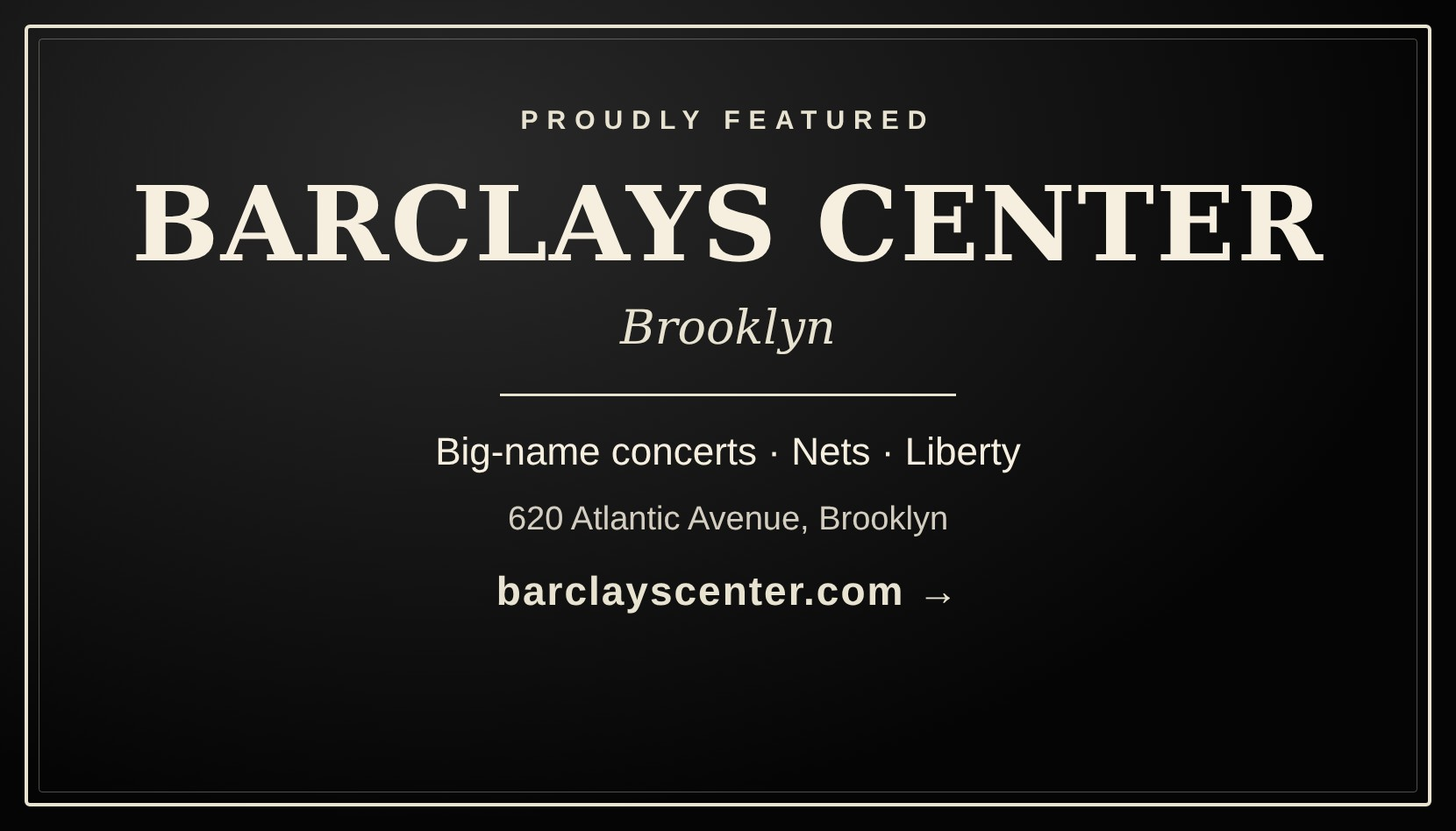
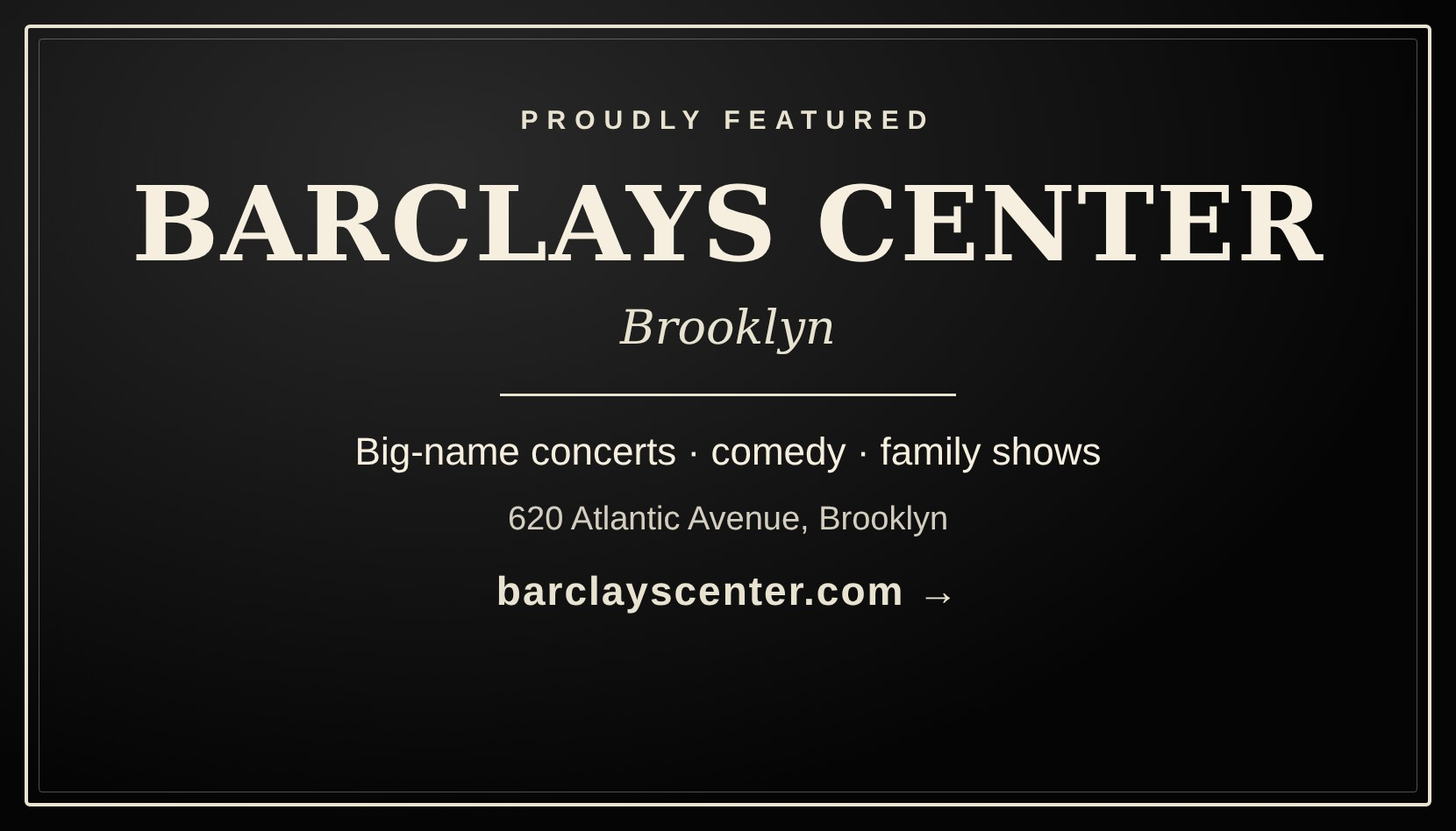
No sports: remove sports stories, headlines, calendar games and sports feed
Claude-Session: https://claude.ai/code/session_01Rvhfw57S8LJQmjjH2L4ZDg

Changed region(s): [[0.2458, 0.52, 0.7681, 0.5812]]

diff --git a/index.html b/index.html
@@ -1384,7 +1384,7 @@ html body #jtSea .jts-m{display:flex;gap:10px;align-items:baseline;padding-top:8
 </div>
 
 <script>
-const STORIES=[{"slug": "stevie-wonder-songs-in-the-key-of-life-msg", "topic": "music", "date": "2026-10-30", "until": "2026-11-19", "minutes": 2, "title": "Stevie Wonder Brings 'Songs in the Key of Life' to the Garden", "dek": "Stevie Wonder marks 50 years of his landmark double album with a Madison Square Garden show on Thursday, Nov. 19.", "body": ["Stevie Wonder plays Madison Square Garden on Thursday, Nov. 19, on his Songs in the Key of Life 50th Anniversary Tour, celebrating half a century of the album.", "Doors open at 7 p.m. and the show starts at 8 p.m. The Garden is at 4 Pennsylvania Plaza in Midtown Manhattan.", "It is the marquee night of a heavy month at the Garden, which also hosts Dave Matthews Band on Nov. 12 and 13, Karan Aujla on Nov. 18 and SOMBR on Nov. 23 and 24.", "Tickets are on sale now; check the Garden's official site for remaining seats and prices."], "sources": [{"outlet": "Resident", "title": "Stevie Wonder, Sting, and 10 More NYC Concerts Worth Seeing in November 2026", "date": "2026-10-27", "url": "https://resident.com/new-york/2026/10/27/stevie-wonder-sting-and-10-more-nyc-concerts-worth-seeing-in-november-2026"}]}, {"slug": "dave-matthews-band-madison-square-garden-november", "topic": "music", "date": "2026-10-30", "until": "2026-11-13", "minutes": 2, "title": "Dave Matthews Band Back at the Garden for Two Nights", "dek": "Dave Matthews Band plays Madison Square Garden Nov. 12 and 13 on its Fall Tour 2026, with a different setlist each night.", "body": ["Dave Matthews Band brings its Fall Tour 2026 to Madison Square Garden for two nights, Thursday, Nov. 12, and Friday, Nov. 13.", "Expect the band's familiar blend of rock, jazz and folk, long jams and setlists that change from night to night, which makes the second show worth a look even if you caught the first.", "The Garden is at 4 Pennsylvania Plaza in Midtown Manhattan. It is a busy stretch for the arena: Karan Aujla brings his P-Pop Culture World Tour there on Nov. 18 with special guest Ikky, Stevie Wonder follows on Nov. 19, and SOMBR plays Nov. 23 and 24 at 7 p.m. with Dove Cameron and Hannah Jadagu.", "Tickets are on sale through the Garden's official ticket pages."], "sources": [{"outlet": "Resident", "title": "Stevie Wonder, Sting, and 10 More NYC Concerts Worth Seeing in November 2026", "date": "2026-10-27", "url": "https://resident.com/new-york/2026/10/27/stevie-wonder-sting-and-10-more-nyc-concerts-worth-seeing-in-november-2026"}]}, {"slug": "sting-brooklyn-paramount-residency", "topic": "music", "date": "2026-10-30", "until": "2026-11-21", "minutes": 2, "title": "Sting Settles In for Eight Nights at Brooklyn Paramount", "dek": "Sting brings his stripped-down STING 3.0 trio to Downtown Brooklyn for eight shows between Nov. 11 and Nov. 21.", "body": ["Sting is taking up residence in Brooklyn this month. His STING 3.0 trio, with Dominic Miller and Chris Maas, plays Brooklyn Paramount on Nov. 11, 12, 14, 15, 17, 18, 20 and 21.", "The format is stripped back: three players working through his solo catalog and songs from his years with The Police, in a room far smaller than the arenas he usually fills.", "Brooklyn Paramount is at 385 Flatbush Avenue Extension in Downtown Brooklyn. Tickets are on sale through the venue's ticket links; with only eight nights, expect the weekend dates to go first.", "The same stage closes the month with Tyla's A*Pop World Tour, on Nov. 28 and 29 at 8 p.m., bringing her mix of pop, R&B and amapiano."], "sources": [{"outlet": "Resident", "title": "Stevie Wonder, Sting, and 10 More NYC Concerts Worth Seeing in November 2026", "date": "2026-10-27", "url": "https://resident.com/new-york/2026/10/27/stevie-wonder-sting-and-10-more-nyc-concerts-worth-seeing-in-november-2026"}]}, {"slug": "halloween-night-in-new-york", "theme": "halloween", "topic": "people", "date": "2026-10-30", "until": "2026-11-01", "minutes": 3, "title": "Halloween Night in New York: What to Expect", "dek": "The Village Halloween Parade marches up Sixth Avenue Saturday night, the kids hit the streets, and the clocks fall back an hour early Sunday.", "body": ["Halloween lands on a Saturday this year, and New York is treating it like a holiday weekend. The big draw is the 53rd Village Halloween Parade on Saturday, Oct. 31, which steps off at 7 p.m. and is expected to run until about 11 p.m.", "## The parade", "The route starts at Canal Street and runs north on Sixth Avenue to 15th Street. This year's theme is \"Body & Soul,\" built around physical and spiritual expression, with an emphasis on dance. Spectators can line either side of Sixth Avenue between Spring and 16th streets; the blocks from Bleecker to 14th Street get the most crowded, so arrive early. Police barricade the avenue, so don't plan on crossing Sixth Avenue once the parade is moving.", "Want to march? Anyone in costume can join, with no registration and no fee. Show up at Canal Street and Sixth Avenue between 6:30 and 9 p.m., entering from the east and south sides. Street clothes won't get you in, and marchers are released in timed groups, so expect a wait. Bands that want to perform do need to register through the parade's website.", "Getting there: take the C or E to Spring Street, the A, B, C, D, E, F or M to West 4th Street, the 1 to Houston or Christopher Street, or the 1, 2, 3, A, C, E, F or M to 14th Street. Staying in? Spectrum News NY1 carries the parade live from 8 p.m.", "## Trick-or-treat tips", "For families, daytime is the sweet spot. Queens Botanical Garden, 43-50 Main Street in Flushing, runs a trick-or-treat trail with face painting, magic shows and storytelling from noon to 5 p.m. Saturday. Hudson Yards holds a Fall Spooktacular from 11 a.m. to 2 p.m. with an RSVP, and Socrates Sculpture Park in Long Island City hosts a Halloween Harvest Festival from noon to 6 p.m. The Bronx Zoo's Boo at the Zoo, 2300 Southern Boulevard, runs Saturday and Sunday with zoo admission and a reservation. The city DOT's Trick or Streets program also closes blocks to cars for trick-or-treating across the five boroughs; check nyc.gov for your neighborhood's block.", "## Clocks fall back", "Daylight saving time ends at 2 a.m. Sunday, Nov. 1, when clocks go back one hour to 1 a.m. Phones update themselves, but set the microwave, oven, car and wall clocks before bed Saturday. Sunsets come about an hour earlier from here on, and marathon runners heading to Staten Island get a bonus hour of sleep.", "## Halloween-weekend shows", "On Friday, Oct. 30, the Highline String Quartet plays horror and thriller themes by candlelight at the Church of the Heavenly Rest, 1085 Fifth Avenue, in a 60-minute Candlelight: Halloween Classics show for ages 8 and up, with tickets from $30. On Sunday, Nov. 1, Israeli pop star Omer Adam opens a two-night stand at Barclays Center, 620 Atlantic Avenue in Brooklyn, returning Tuesday, Nov. 3."], "sources": [{"outlet": "Time Out New York", "title": "The world's biggest Halloween parade returns to NYC next month and the 2026 theme has just been revealed", "date": "2026-09-16", "url": "https://www.timeout.com/newyork/news/the-worlds-biggest-halloween-parade-returns-to-nyc-next-month-and-the-titillating-2026-theme-has-just-been-revealed-091626"}, {"outlet": "New York City Tourism + Conventions", "title": "Guide to the Village Halloween Parade", "date": "2026-09-25", "url": "https://www.nyctourism.com/articles/guide-to-the-village-halloween-parade/"}, {"outlet": "Secret NYC", "title": "The best Halloween events in NYC 2026", "date": "2026-10-15", "url": "https://secretnyc.co/nyc-best-halloween-events-2026/"}, {"outlet": "FOX 5 New York", "title": "When daylight saving time ends in 2026: Date clocks 'fall back' one hour", "date": "2026-10-21", "url": "https://www.fox5ny.com/news/when-daylight-saving-time-ends-2026-date-clocks-fall-back-one-hour"}, {"outlet": "Resident", "title": "Stevie Wonder, Sting, and 10 More NYC Concerts Worth Seeing in November 2026", "date": "2026-10-27", "url": "https://resident.com/new-york/2026/10/27/stevie-wonder-sting-and-10-more-nyc-concerts-worth-seeing-in-november-2026"}]}, {"slug": "nyc-marathon-2026-route-start-times-closures", "topic": "sports", "date": "2026-10-30", "until": "2026-11-01", "minutes": 3, "title": "Marathon Sunday: Route, Start Times and Where to Watch", "dek": "The TCS New York City Marathon runs through all five boroughs Sunday, Nov. 1, with a reworked Bronx stretch and bridge closures from Saturday night.", "body": ["The TCS New York City Marathon takes over the five boroughs on Sunday, Nov. 1. This is the 55th running of the race, and it marks 50 years since the five-borough course was first run on Oct. 24, 1976.", "## Start times", "Everything starts at Fort Wadsworth on Staten Island. The professional wheelchair division goes at 8 a.m., followed by handcycles and select athletes with disabilities at 8:22 a.m., the professional women at 8:40 a.m. and the professional men at 9:05 a.m. The mass field follows in five waves at 9:10, 9:45, 10:20 and 10:55 a.m., with the last wave at 11:30 a.m.", "## The route", "Runners cross the Verrazzano-Narrows Bridge into Brooklyn, run up Fourth Avenue and through Williamsburg and Greenpoint, cross the Pulaski Bridge into Long Island City, then take the Queensboro Bridge into Manhattan and head up First Avenue. In the Bronx, the course has its first official change in 15 years: after the Willis Avenue Bridge, runners take East 135th Street, Alexander Avenue, East 141st Street, Third Avenue and East 138th Street before crossing the Madison Avenue Bridge. They return down Fifth Avenue and finish in Central Park.", "## Where to watch", "Take the subway. Good spots include Fourth Avenue in Brooklyn (R train), Fourth and Flatbush near mile 8 (B, D, N, Q, R, 2, 3, 4, 5), Williamsburg and Greenpoint (G, L, M, J), First Avenue at miles 16 to 18 (Q, 4, 5, 6), Mott Haven near the 6 at 3rd Avenue-138th Street, and Fifth Avenue at miles 23 to 24. The start area and all five bridges are closed to spectators. Finish-line grandstand seats require a ticket, with entry at West 62nd Street and Broadway; there is standing room from Columbus Circle to the south end of the grandstands, with security screening and no chairs. The TCS New York City Marathon App tracks runners by name or bib number.", "## Street and bridge closures", "The Verrazzano-Narrows upper level closes both ways from 11 p.m. Saturday until 4 p.m. Sunday. The Pulaski Bridge is closed 7 a.m. to 6:30 p.m., the Queensboro's lower level into Manhattan 6:30 a.m. to 5:30 p.m., and the Willis Avenue and Madison Avenue bridges 7:30 a.m. to 6:30 p.m. Fourth Avenue in Brooklyn closes 6:30 a.m. to 6:30 p.m.; First Avenue from 59th Street to the Willis Avenue Bridge closes 7 a.m. to 10:30 p.m.; Fifth Avenue from 138th to 90th Street closes 9 a.m. to 7:30 p.m.; and Central Park South stays shut until 10:30 p.m.", "Watching from home? WABC-TV Channel 7 starts pre-race coverage at 7 a.m., with the race from 8 a.m. to 1 p.m. ESPN2 carries it from 8 to 11:30 a.m."], "sources": [{"outlet": "FOX 5 New York", "title": "NYC Marathon 2026 guide: New Bronx route, wave times, bridge closures, full course map", "date": "2026-10-28", "url": "https://www.fox5ny.com/news/nyc-marathon-2026-guide-new-bronx-route-wave-times-bridge-closures-full-course-map.amp"}, {"outlet": "ABC7 New York", "title": "2026 TCS New York City Marathon: How to watch live", "date": "2026-10-26", "url": "https://abc7ny.com/post/2026-tcs-new-york-city-marathon-how-watch-live/19964790/"}, {"outlet": "Marathon Handbook", "title": "How to Watch the 2026 New York City Marathon on TV, Online and in Person", "date": "2026-10-21", "url": "https://marathonhandbook.com/how-to-watch-the-new-york-city-marathon/"}]}, {"slug": "barclays-center-november-concerts", "topic": "music", "date": "2026-10-30", "until": "2026-11-29", "minutes": 2, "title": "Barclays Center's November: Young Miko to John Summit", "dek": "Brooklyn's arena packs November with reggaeton, R&B, alt-rock and two nights of dance music.", "body": ["Barclays Center, at 620 Atlantic Avenue in Brooklyn, runs a full slate of concerts this month.", "Young Miko brings the Late Checkout Tour on Thursday, Nov. 5, with doors at 7 p.m. and the show at 8 p.m. Jessie Reyez follows on Thursday, Nov. 19, with her A Little Vengeance Tour, also doors at 7 and show at 8.", "The Neighbourhood plays two nights on THE WOURLD TOUR, Saturday, Nov. 21, at 7:30 p.m. and Sunday, Nov. 22, at 6 p.m. Nessa Barrett opens both nights, with Noise Dept. added on Saturday only.", "Thanksgiving weekend belongs to John Summit, whose CTRL ESCAPE Arena Tour lands Nov. 28 and 29 with Cassian and Jackie Hollander on both bills. Earlier in the month, Israeli pop star Omer Adam plays Nov. 1 and Nov. 3.", "Tickets are sold through the arena's official ticket links."], "sources": [{"outlet": "Resident", "title": "Stevie Wonder, Sting, and 10 More NYC Concerts Worth Seeing in November 2026", "date": "2026-10-27", "url": "https://resident.com/new-york/2026/10/27/stevie-wonder-sting-and-10-more-nyc-concerts-worth-seeing-in-november-2026"}]}, {"slug": "dudamel-tosca-carnegie-hall", "topic": "music", "date": "2026-10-30", "until": "2026-11-15", "minutes": 2, "title": "Dudamel Opens Carnegie Hall's Opera Project With 'Tosca'", "dek": "Gustavo Dudamel leads the New York Philharmonic and a star cast in Puccini's Tosca in concert at Carnegie Hall, Nov. 13 and 15.", "body": ["Gustavo Dudamel, music and artistic director of the New York Philharmonic, conducts Puccini's Tosca in concert at Carnegie Hall for two performances: Friday, Nov. 13, at 7:30 p.m. and Sunday, Nov. 15, at 2 p.m.", "Marina Rebeka sings the title role, with Jonas Kaufmann as Cavaradossi and Ludovic Tézier as Scarpia. Andrew Moore, Ben Brady, Ben Reisinger, Benjamin Taylor and Christopher Humbert Jr. round out the cast, along with the New York Philharmonic Chorus under Malcolm J. Merriweather.", "The two nights launch a five-year opera-in-concert project between the Philharmonic and Carnegie Hall, and they play in the hall's main room, the Stern Auditorium / Perelman Stage.", "Tickets are sold through the Carnegie Hall box office and its website. Check the hall's calendar for remaining seats."], "sources": [{"outlet": "Carnegie Hall", "title": "New York Philharmonic: Tosca, Nov. 15, 2026", "date": "", "url": "https://www.carnegiehall.org/Calendar/2026/11/15/New-York-Philharmonic-0200PM"}, {"outlet": "TicketNews", "title": "New York Philharmonic Tosca tickets on sale in New York", "date": "2026-08-10", "url": "https://www.ticketnews.com/2026/08/new-york-philharmonic-tosca-tickets-on-sale-in-new-york/"}, {"outlet": "BroadwayWorld", "title": "Carnegie Hall Reveals 2026-2027 Season Featuring Ring Cycle and Tosca in Concert", "date": "2026-02-05", "url": "https://www.broadwayworld.com/article/Carnegie-Hall-Reveals-20262027-Season-Featuring-RING-CYCLE-and-TOSCA-in-Concert-Plus-More-20260205"}]}, {"slug": "charles-lloyd-blue-note-november", "topic": "music", "date": "2026-10-30", "until": "2026-11-19", "minutes": 1, "title": "Charles Lloyd Plays Two Nights at the Blue Note", "dek": "Jazz great Charles Lloyd plays the Blue Note in Greenwich Village Nov. 18 and 19.", "body": ["Jazz great Charles Lloyd plays the Blue Note Jazz Club on Wednesday, Nov. 18, and Thursday, Nov. 19, with multiple sets; the Thursday late set has doors at 10:30 p.m.", "The Blue Note is at 131 W. Third Street in Greenwich Village.", "Tickets are on sale through the club's ticketing partner. Check set times when you buy."], "sources": [{"outlet": "Songkick", "title": "Charles Lloyd at Blue Note Jazz Club, Nov. 19, 2026", "date": "", "url": "https://www.songkick.com/concerts/43256335-charles-lloyd-at-blue-note-jazz-club"}]}, {"slug": "brooklyn-steel-november-shows", "topic": "music", "date": "2026-10-30", "until": "2026-11-28", "minutes": 1, "title": "Brooklyn Steel's November Weekends: Winyah and TroyBoi", "dek": "The Brooklyn club hosts Winyah on Nov. 14 and producer TroyBoi on Nov. 28.", "body": ["Brooklyn Steel, the 1,800-capacity room at 319 Frost Street in Brooklyn, has two Saturday nights worth circling.", "Winyah headlines on Saturday, Nov. 14, with doors at 8 p.m. Two weeks later, on Saturday, Nov. 28, electronic producer TroyBoi takes over, with doors at 9 p.m.", "Tickets for both are on sale through AXS and SeatGeek."], "sources": [{"outlet": "Songkick", "title": "Winyah at Brooklyn Steel, Nov. 14, 2026", "date": "", "url": "https://www.songkick.com/concerts/43238640-winyah-at-brooklyn-steel"}, {"outlet": "Songkick", "title": "TroyBoi at Brooklyn Steel, Nov. 28, 2026", "date": "", "url": "https://www.songkick.com/concerts/43313132-troyboi-at-brooklyn-steel"}]}, {"slug": "disney-worlds-collide-concert-barclays", "topic": "music", "date": "2026-10-30", "until": "2026-11-07", "minutes": 1, "title": "Disney's 'Worlds Collide' Tour Brings Family Sing-Alongs to Brooklyn", "dek": "Songs from Descendants, ZOMBIES and Camp Rock fill Barclays Center on Saturday, Nov. 7.", "body": ["Families with young fans should mark Saturday, Nov. 7, when the Disney Worlds Collide Concert Tour plays Barclays Center, 620 Atlantic Avenue in Brooklyn.", "The show draws on songs from Descendants, ZOMBIES and Camp Rock, with performers including Malachi Barton, Liamani Segura and Dara Reneé.", "Doors open at 6 p.m. and the show starts at 7 p.m., an early curtain that works for school-age kids. Tickets are on sale through the arena's official ticket links."], "sources": [{"outlet": "Resident", "title": "Stevie Wonder, Sting, and 10 More NYC Concerts Worth Seeing in November 2026", "date": "2026-10-27", "url": "https://resident.com/new-york/2026/10/27/stevie-wonder-sting-and-10-more-nyc-concerts-worth-seeing-in-november-2026"}]}, {"slug": "beacon-theatre-comedy-november", "topic": "stage", "date": "2026-10-30", "until": "2026-11-22", "minutes": 2, "title": "Laughs on Broadway: Comedy Festival Nights and Oliver and Meyers at the Beacon", "dek": "The Beacon Theatre hosts New York Comedy Festival shows Nov. 12-14 and John Oliver with Seth Meyers on Nov. 22.", "body": ["The Beacon Theatre, at 2124 Broadway at 74th Street turns into a comedy house for much of November.", "The New York Comedy Festival presents three straight nights there: Jordan Jensen on Thursday, Nov. 12, Ilana Glazer Live! on Friday, Nov. 13, and Daniel Sloss with his show Bitter on Saturday, Nov. 14.", "Then on Sunday, Nov. 22, at 7:30 p.m., John Oliver and Seth Meyers share the stage. A second Oliver and Meyers show is set for Dec. 13. Tickets are sold through Ticketmaster, with all-in pricing that includes fees.", "Music fans get their turn too: Michelle Branch plays the Beacon on Thursday, Nov. 5.", "Check beacontheatre.com for venue rules and showtimes before you go."], "sources": [{"outlet": "Songkick", "title": "Beacon Theatre, New York: upcoming events", "date": "", "url": "https://songkick.com/pt/venues/1025-beacon-theatre"}, {"outlet": "I LOVE NY", "title": "John Oliver & Seth Meyers", "date": "", "url": "https://www.iloveny.com/event/john-oliver-%26-seth-meyers/tm_g5diz_ae3owgj/"}, {"outlet": "Songkick", "title": "John Oliver and Seth Meyers at Beacon Theatre, Nov. 22, 2026", "date": "", "url": "https://www.songkick.com/concerts/43191723-john-oliver-at-beacon-theatre"}]}, {"slug": "knicks-november-home-games-msg", "topic": "sports", "date": "2026-10-30", "until": "2026-11-29", "minutes": 2, "title": "Champion Knicks Play Nine at the Garden in November", "dek": "The defending champion Knicks host nine games at Madison Square Garden this month, including two NBA Cup nights and a Black Friday date with Miami.", "body": ["The defending champion Knicks play nine games at Madison Square Garden, 4 Pennsylvania Plaza, between Nov. 2 and Nov. 29.", "## The home schedule", "Mon., Nov. 2, Brooklyn Nets, 7:30 p.m.; Wed., Nov. 4, Chicago Bulls, 7:30 p.m.; Tue., Nov. 10, Milwaukee Bucks, 7:30 p.m.; Wed., Nov. 11, Cleveland Cavaliers, 7 p.m.; Sat., Nov. 21, Portland Trail Blazers, 7:30 p.m.; Sun., Nov. 22, Indiana Pacers, 8 p.m.; Wed., Nov. 25, Cleveland Cavaliers (NBA Cup), 7:30 p.m.; Fri., Nov. 27, Miami Heat (NBA Cup), 7 p.m.; Sun., Nov. 29, Atlanta Hawks, 6 p.m.", "## Games to circle", "The month's first home game, Nov. 2, is a crosstown meeting with the Nets. The day after Thanksgiving, Giannis Antetokounmpo makes his first trip to New York since moving to the Heat; that game is on Prime and falls in the middle of the Knicks' longest homestand of the season, five games in nine days. The Cavaliers come to town twice, a rematch of last season's Eastern Conference finals, which the Knicks swept.", "Ticket prices vary by opponent, date and seat. Buy through the team's official ticket channels."], "sources": [{"outlet": "American Arenas", "title": "New York Knicks Schedule 2026", "date": "", "url": "https://americanarenas.com/sports/nba/new-york-knicks/schedule/"}, {"outlet": "NBA.com", "title": "10 games to watch: New York Knicks 2026-27", "date": "2026-08-14", "url": "https://www.nba.com/news/10-games-watch-new-york-knicks-2026-27"}]}, {"slug": "macys-parade-100th-rockefeller-tree-christmas-spectacular", "topic": "culture", "date": "2026-10-30", "until": "2026-11-26", "minutes": 3, "title": "Holiday Season Arrives: The 100th Macy's Parade, the Tree and the Rockettes", "dek": "The Rockefeller Center tree arrives Nov. 7, the Christmas Spectacular is underway at Radio City, and Macy's marches for the 100th time on Thanksgiving morning.", "body": ["New York's holiday season gets rolling in November, and this year's Thanksgiving parade is a milestone.", "## Macy's Thanksgiving Day Parade", "The 100th Macy's Thanksgiving Day Parade steps off at 8:30 a.m. on Thursday, Nov. 26, and runs until about noon. The route starts at Central Park West and 77th Street, heads south to Columbus Circle, turns east, then runs down Sixth Avenue to Macy's Herald Square. The parade dates to 1924. Arrive early for a curbside spot along the route; the giant balloons are inflated the day before.", "## The Rockefeller Center tree", "The 2026 Rockefeller Center Christmas tree arrives Saturday, Nov. 7, on Meet the Tree Day. The lighting ceremony is Wednesday, Dec. 2; performers and hosts have not been announced. The Rink at Rockefeller Center is already open for the season, having opened Oct. 10.", "## The Rockettes", "The Christmas Spectacular Starring the Radio City Rockettes is back at Radio City Music Hall, 1260 Avenue of the Americas, with performances listed starting Wednesday, Nov. 4, and running through Jan. 4, 2027. Weekday shows generally start at 3 or 7 p.m., with weekend shows from 11 a.m. into the evening; check the specific date before buying."], "sources": [{"outlet": "The Sybarite", "title": "Macy's Thanksgiving Day Parade 2026", "date": "", "url": "https://thesybarite.co/experiences/macys-thanksgiving-day-parade-2026"}, {"outlet": "Time Out New York", "title": "The 2026 Rockefeller Center Christmas Tree Lighting has officially been announced", "date": "2026-09-29", "url": "https://www.timeout.com/newyork/news/the-2026-rockefeller-center-christmas-tree-lighting-has-officially-been-announced-and-its-happening-earlier-than-you-think-092926"}, {"outlet": "New York Events", "title": "Radio City Christmas Spectacular New York Tickets", "date": "", "url": "https://new-york.events/shows/radio-city-christmas-spectacular/"}]}];(()=>{const d=new Date(),k=d.getFullYear()+"-"+String(d.getMonth()+1).padStart(2,"0")+"-"+String(d.getDate()).padStart(2,"0");window.EXPIRED=new Set(STORIES.filter(s=>s.until&&s.until<k).map(s=>s.slug));const L=STORIES.filter(s=>!s.until||s.until>=k);STORIES.length=0;STORIES.push(...L)})();
+const STORIES=[{"slug": "stevie-wonder-songs-in-the-key-of-life-msg", "topic": "music", "date": "2026-10-30", "until": "2026-11-19", "minutes": 2, "title": "Stevie Wonder Brings 'Songs in the Key of Life' to the Garden", "dek": "Stevie Wonder marks 50 years of his landmark double album with a Madison Square Garden show on Thursday, Nov. 19.", "body": ["Stevie Wonder plays Madison Square Garden on Thursday, Nov. 19, on his Songs in the Key of Life 50th Anniversary Tour, celebrating half a century of the album.", "Doors open at 7 p.m. and the show starts at 8 p.m. The Garden is at 4 Pennsylvania Plaza in Midtown Manhattan.", "It is the marquee night of a heavy month at the Garden, which also hosts Dave Matthews Band on Nov. 12 and 13, Karan Aujla on Nov. 18 and SOMBR on Nov. 23 and 24.", "Tickets are on sale now; check the Garden's official site for remaining seats and prices."], "sources": [{"outlet": "Resident", "title": "Stevie Wonder, Sting, and 10 More NYC Concerts Worth Seeing in November 2026", "date": "2026-10-27", "url": "https://resident.com/new-york/2026/10/27/stevie-wonder-sting-and-10-more-nyc-concerts-worth-seeing-in-november-2026"}]}, {"slug": "dave-matthews-band-madison-square-garden-november", "topic": "music", "date": "2026-10-30", "until": "2026-11-13", "minutes": 2, "title": "Dave Matthews Band Back at the Garden for Two Nights", "dek": "Dave Matthews Band plays Madison Square Garden Nov. 12 and 13 on its Fall Tour 2026, with a different setlist each night.", "body": ["Dave Matthews Band brings its Fall Tour 2026 to Madison Square Garden for two nights, Thursday, Nov. 12, and Friday, Nov. 13.", "Expect the band's familiar blend of rock, jazz and folk, long jams and setlists that change from night to night, which makes the second show worth a look even if you caught the first.", "The Garden is at 4 Pennsylvania Plaza in Midtown Manhattan. It is a busy stretch for the arena: Karan Aujla brings his P-Pop Culture World Tour there on Nov. 18 with special guest Ikky, Stevie Wonder follows on Nov. 19, and SOMBR plays Nov. 23 and 24 at 7 p.m. with Dove Cameron and Hannah Jadagu.", "Tickets are on sale through the Garden's official ticket pages."], "sources": [{"outlet": "Resident", "title": "Stevie Wonder, Sting, and 10 More NYC Concerts Worth Seeing in November 2026", "date": "2026-10-27", "url": "https://resident.com/new-york/2026/10/27/stevie-wonder-sting-and-10-more-nyc-concerts-worth-seeing-in-november-2026"}]}, {"slug": "sting-brooklyn-paramount-residency", "topic": "music", "date": "2026-10-30", "until": "2026-11-21", "minutes": 2, "title": "Sting Settles In for Eight Nights at Brooklyn Paramount", "dek": "Sting brings his stripped-down STING 3.0 trio to Downtown Brooklyn for eight shows between Nov. 11 and Nov. 21.", "body": ["Sting is taking up residence in Brooklyn this month. His STING 3.0 trio, with Dominic Miller and Chris Maas, plays Brooklyn Paramount on Nov. 11, 12, 14, 15, 17, 18, 20 and 21.", "The format is stripped back: three players working through his solo catalog and songs from his years with The Police, in a room far smaller than the arenas he usually fills.", "Brooklyn Paramount is at 385 Flatbush Avenue Extension in Downtown Brooklyn. Tickets are on sale through the venue's ticket links; with only eight nights, expect the weekend dates to go first.", "The same stage closes the month with Tyla's A*Pop World Tour, on Nov. 28 and 29 at 8 p.m., bringing her mix of pop, R&B and amapiano."], "sources": [{"outlet": "Resident", "title": "Stevie Wonder, Sting, and 10 More NYC Concerts Worth Seeing in November 2026", "date": "2026-10-27", "url": "https://resident.com/new-york/2026/10/27/stevie-wonder-sting-and-10-more-nyc-concerts-worth-seeing-in-november-2026"}]}, {"slug": "halloween-night-in-new-york", "theme": "halloween", "topic": "people", "date": "2026-10-30", "until": "2026-11-01", "minutes": 3, "title": "Halloween Night in New York: What to Expect", "dek": "The Village Halloween Parade marches up Sixth Avenue Saturday night, the kids hit the streets, and the clocks fall back an hour early Sunday.", "body": ["Halloween lands on a Saturday this year, and New York is treating it like a holiday weekend. The big draw is the 53rd Village Halloween Parade on Saturday, Oct. 31, which steps off at 7 p.m. and is expected to run until about 11 p.m.", "## The parade", "The route starts at Canal Street and runs north on Sixth Avenue to 15th Street. This year's theme is \"Body & Soul,\" built around physical and spiritual expression, with an emphasis on dance. Spectators can line either side of Sixth Avenue between Spring and 16th streets; the blocks from Bleecker to 14th Street get the most crowded, so arrive early. Police barricade the avenue, so don't plan on crossing Sixth Avenue once the parade is moving.", "Want to march? Anyone in costume can join, with no registration and no fee. Show up at Canal Street and Sixth Avenue between 6:30 and 9 p.m., entering from the east and south sides. Street clothes won't get you in, and marchers are released in timed groups, so expect a wait. Bands that want to perform do need to register through the parade's website.", "Getting there: take the C or E to Spring Street, the A, B, C, D, E, F or M to West 4th Street, the 1 to Houston or Christopher Street, or the 1, 2, 3, A, C, E, F or M to 14th Street. Staying in? Spectrum News NY1 carries the parade live from 8 p.m.", "## Trick-or-treat tips", "For families, daytime is the sweet spot. Queens Botanical Garden, 43-50 Main Street in Flushing, runs a trick-or-treat trail with face painting, magic shows and storytelling from noon to 5 p.m. Saturday. Hudson Yards holds a Fall Spooktacular from 11 a.m. to 2 p.m. with an RSVP, and Socrates Sculpture Park in Long Island City hosts a Halloween Harvest Festival from noon to 6 p.m. The Bronx Zoo's Boo at the Zoo, 2300 Southern Boulevard, runs Saturday and Sunday with zoo admission and a reservation. The city DOT's Trick or Streets program also closes blocks to cars for trick-or-treating across the five boroughs; check nyc.gov for your neighborhood's block.", "## Clocks fall back", "Daylight saving time ends at 2 a.m. Sunday, Nov. 1, when clocks go back one hour to 1 a.m. Phones update themselves, but set the microwave, oven, car and wall clocks before bed Saturday. Sunsets come about an hour earlier from here on, and marathon runners heading to Staten Island get a bonus hour of sleep.", "## Halloween-weekend shows", "On Friday, Oct. 30, the Highline String Quartet plays horror and thriller themes by candlelight at the Church of the Heavenly Rest, 1085 Fifth Avenue, in a 60-minute Candlelight: Halloween Classics show for ages 8 and up, with tickets from $30. On Sunday, Nov. 1, Israeli pop star Omer Adam opens a two-night stand at Barclays Center, 620 Atlantic Avenue in Brooklyn, returning Tuesday, Nov. 3."], "sources": [{"outlet": "Time Out New York", "title": "The world's biggest Halloween parade returns to NYC next month and the 2026 theme has just been revealed", "date": "2026-09-16", "url": "https://www.timeout.com/newyork/news/the-worlds-biggest-halloween-parade-returns-to-nyc-next-month-and-the-titillating-2026-theme-has-just-been-revealed-091626"}, {"outlet": "New York City Tourism + Conventions", "title": "Guide to the Village Halloween Parade", "date": "2026-09-25", "url": "https://www.nyctourism.com/articles/guide-to-the-village-halloween-parade/"}, {"outlet": "Secret NYC", "title": "The best Halloween events in NYC 2026", "date": "2026-10-15", "url": "https://secretnyc.co/nyc-best-halloween-events-2026/"}, {"outlet": "FOX 5 New York", "title": "When daylight saving time ends in 2026: Date clocks 'fall back' one hour", "date": "2026-10-21", "url": "https://www.fox5ny.com/news/when-daylight-saving-time-ends-2026-date-clocks-fall-back-one-hour"}, {"outlet": "Resident", "title": "Stevie Wonder, Sting, and 10 More NYC Concerts Worth Seeing in November 2026", "date": "2026-10-27", "url": "https://resident.com/new-york/2026/10/27/stevie-wonder-sting-and-10-more-nyc-concerts-worth-seeing-in-november-2026"}]}, {"slug": "barclays-center-november-concerts", "topic": "music", "date": "2026-10-30", "until": "2026-11-29", "minutes": 2, "title": "Barclays Center's November: Young Miko to John Summit", "dek": "Brooklyn's arena packs November with reggaeton, R&B, alt-rock and two nights of dance music.", "body": ["Barclays Center, at 620 Atlantic Avenue in Brooklyn, runs a full slate of concerts this month.", "Young Miko brings the Late Checkout Tour on Thursday, Nov. 5, with doors at 7 p.m. and the show at 8 p.m. Jessie Reyez follows on Thursday, Nov. 19, with her A Little Vengeance Tour, also doors at 7 and show at 8.", "The Neighbourhood plays two nights on THE WOURLD TOUR, Saturday, Nov. 21, at 7:30 p.m. and Sunday, Nov. 22, at 6 p.m. Nessa Barrett opens both nights, with Noise Dept. added on Saturday only.", "Thanksgiving weekend belongs to John Summit, whose CTRL ESCAPE Arena Tour lands Nov. 28 and 29 with Cassian and Jackie Hollander on both bills. Earlier in the month, Israeli pop star Omer Adam plays Nov. 1 and Nov. 3.", "Tickets are sold through the arena's official ticket links."], "sources": [{"outlet": "Resident", "title": "Stevie Wonder, Sting, and 10 More NYC Concerts Worth Seeing in November 2026", "date": "2026-10-27", "url": "https://resident.com/new-york/2026/10/27/stevie-wonder-sting-and-10-more-nyc-concerts-worth-seeing-in-november-2026"}]}, {"slug": "dudamel-tosca-carnegie-hall", "topic": "music", "date": "2026-10-30", "until": "2026-11-15", "minutes": 2, "title": "Dudamel Opens Carnegie Hall's Opera Project With 'Tosca'", "dek": "Gustavo Dudamel leads the New York Philharmonic and a star cast in Puccini's Tosca in concert at Carnegie Hall, Nov. 13 and 15.", "body": ["Gustavo Dudamel, music and artistic director of the New York Philharmonic, conducts Puccini's Tosca in concert at Carnegie Hall for two performances: Friday, Nov. 13, at 7:30 p.m. and Sunday, Nov. 15, at 2 p.m.", "Marina Rebeka sings the title role, with Jonas Kaufmann as Cavaradossi and Ludovic Tézier as Scarpia. Andrew Moore, Ben Brady, Ben Reisinger, Benjamin Taylor and Christopher Humbert Jr. round out the cast, along with the New York Philharmonic Chorus under Malcolm J. Merriweather.", "The two nights launch a five-year opera-in-concert project between the Philharmonic and Carnegie Hall, and they play in the hall's main room, the Stern Auditorium / Perelman Stage.", "Tickets are sold through the Carnegie Hall box office and its website. Check the hall's calendar for remaining seats."], "sources": [{"outlet": "Carnegie Hall", "title": "New York Philharmonic: Tosca, Nov. 15, 2026", "date": "", "url": "https://www.carnegiehall.org/Calendar/2026/11/15/New-York-Philharmonic-0200PM"}, {"outlet": "TicketNews", "title": "New York Philharmonic Tosca tickets on sale in New York", "date": "2026-08-10", "url": "https://www.ticketnews.com/2026/08/new-york-philharmonic-tosca-tickets-on-sale-in-new-york/"}, {"outlet": "BroadwayWorld", "title": "Carnegie Hall Reveals 2026-2027 Season Featuring Ring Cycle and Tosca in Concert", "date": "2026-02-05", "url": "https://www.broadwayworld.com/article/Carnegie-Hall-Reveals-20262027-Season-Featuring-RING-CYCLE-and-TOSCA-in-Concert-Plus-More-20260205"}]}, {"slug": "charles-lloyd-blue-note-november", "topic": "music", "date": "2026-10-30", "until": "2026-11-19", "minutes": 1, "title": "Charles Lloyd Plays Two Nights at the Blue Note", "dek": "Jazz great Charles Lloyd plays the Blue Note in Greenwich Village Nov. 18 and 19.", "body": ["Jazz great Charles Lloyd plays the Blue Note Jazz Club on Wednesday, Nov. 18, and Thursday, Nov. 19, with multiple sets; the Thursday late set has doors at 10:30 p.m.", "The Blue Note is at 131 W. Third Street in Greenwich Village.", "Tickets are on sale through the club's ticketing partner. Check set times when you buy."], "sources": [{"outlet": "Songkick", "title": "Charles Lloyd at Blue Note Jazz Club, Nov. 19, 2026", "date": "", "url": "https://www.songkick.com/concerts/43256335-charles-lloyd-at-blue-note-jazz-club"}]}, {"slug": "brooklyn-steel-november-shows", "topic": "music", "date": "2026-10-30", "until": "2026-11-28", "minutes": 1, "title": "Brooklyn Steel's November Weekends: Winyah and TroyBoi", "dek": "The Brooklyn club hosts Winyah on Nov. 14 and producer TroyBoi on Nov. 28.", "body": ["Brooklyn Steel, the 1,800-capacity room at 319 Frost Street in Brooklyn, has two Saturday nights worth circling.", "Winyah headlines on Saturday, Nov. 14, with doors at 8 p.m. Two weeks later, on Saturday, Nov. 28, electronic producer TroyBoi takes over, with doors at 9 p.m.", "Tickets for both are on sale through AXS and SeatGeek."], "sources": [{"outlet": "Songkick", "title": "Winyah at Brooklyn Steel, Nov. 14, 2026", "date": "", "url": "https://www.songkick.com/concerts/43238640-winyah-at-brooklyn-steel"}, {"outlet": "Songkick", "title": "TroyBoi at Brooklyn Steel, Nov. 28, 2026", "date": "", "url": "https://www.songkick.com/concerts/43313132-troyboi-at-brooklyn-steel"}]}, {"slug": "disney-worlds-collide-concert-barclays", "topic": "music", "date": "2026-10-30", "until": "2026-11-07", "minutes": 1, "title": "Disney's 'Worlds Collide' Tour Brings Family Sing-Alongs to Brooklyn", "dek": "Songs from Descendants, ZOMBIES and Camp Rock fill Barclays Center on Saturday, Nov. 7.", "body": ["Families with young fans should mark Saturday, Nov. 7, when the Disney Worlds Collide Concert Tour plays Barclays Center, 620 Atlantic Avenue in Brooklyn.", "The show draws on songs from Descendants, ZOMBIES and Camp Rock, with performers including Malachi Barton, Liamani Segura and Dara Reneé.", "Doors open at 6 p.m. and the show starts at 7 p.m., an early curtain that works for school-age kids. Tickets are on sale through the arena's official ticket links."], "sources": [{"outlet": "Resident", "title": "Stevie Wonder, Sting, and 10 More NYC Concerts Worth Seeing in November 2026", "date": "2026-10-27", "url": "https://resident.com/new-york/2026/10/27/stevie-wonder-sting-and-10-more-nyc-concerts-worth-seeing-in-november-2026"}]}, {"slug": "beacon-theatre-comedy-november", "topic": "stage", "date": "2026-10-30", "until": "2026-11-22", "minutes": 2, "title": "Laughs on Broadway: Comedy Festival Nights and Oliver and Meyers at the Beacon", "dek": "The Beacon Theatre hosts New York Comedy Festival shows Nov. 12-14 and John Oliver with Seth Meyers on Nov. 22.", "body": ["The Beacon Theatre, at 2124 Broadway at 74th Street turns into a comedy house for much of November.", "The New York Comedy Festival presents three straight nights there: Jordan Jensen on Thursday, Nov. 12, Ilana Glazer Live! on Friday, Nov. 13, and Daniel Sloss with his show Bitter on Saturday, Nov. 14.", "Then on Sunday, Nov. 22, at 7:30 p.m., John Oliver and Seth Meyers share the stage. A second Oliver and Meyers show is set for Dec. 13. Tickets are sold through Ticketmaster, with all-in pricing that includes fees.", "Music fans get their turn too: Michelle Branch plays the Beacon on Thursday, Nov. 5.", "Check beacontheatre.com for venue rules and showtimes before you go."], "sources": [{"outlet": "Songkick", "title": "Beacon Theatre, New York: upcoming events", "date": "", "url": "https://songkick.com/pt/venues/1025-beacon-theatre"}, {"outlet": "I LOVE NY", "title": "John Oliver & Seth Meyers", "date": "", "url": "https://www.iloveny.com/event/john-oliver-%26-seth-meyers/tm_g5diz_ae3owgj/"}, {"outlet": "Songkick", "title": "John Oliver and Seth Meyers at Beacon Theatre, Nov. 22, 2026", "date": "", "url": "https://www.songkick.com/concerts/43191723-john-oliver-at-beacon-theatre"}]}, {"slug": "macys-parade-100th-rockefeller-tree-christmas-spectacular", "topic": "culture", "date": "2026-10-30", "until": "2026-11-26", "minutes": 3, "title": "Holiday Season Arrives: The 100th Macy's Parade, the Tree and the Rockettes", "dek": "The Rockefeller Center tree arrives Nov. 7, the Christmas Spectacular is underway at Radio City, and Macy's marches for the 100th time on Thanksgiving morning.", "body": ["New York's holiday season gets rolling in November, and this year's Thanksgiving parade is a milestone.", "## Macy's Thanksgiving Day Parade", "The 100th Macy's Thanksgiving Day Parade steps off at 8:30 a.m. on Thursday, Nov. 26, and runs until about noon. The route starts at Central Park West and 77th Street, heads south to Columbus Circle, turns east, then runs down Sixth Avenue to Macy's Herald Square. The parade dates to 1924. Arrive early for a curbside spot along the route; the giant balloons are inflated the day before.", "## The Rockefeller Center tree", "The 2026 Rockefeller Center Christmas tree arrives Saturday, Nov. 7, on Meet the Tree Day. The lighting ceremony is Wednesday, Dec. 2; performers and hosts have not been announced. The Rink at Rockefeller Center is already open for the season, having opened Oct. 10.", "## The Rockettes", "The Christmas Spectacular Starring the Radio City Rockettes is back at Radio City Music Hall, 1260 Avenue of the Americas, with performances listed starting Wednesday, Nov. 4, and running through Jan. 4, 2027. Weekday shows generally start at 3 or 7 p.m., with weekend shows from 11 a.m. into the evening; check the specific date before buying."], "sources": [{"outlet": "The Sybarite", "title": "Macy's Thanksgiving Day Parade 2026", "date": "", "url": "https://thesybarite.co/experiences/macys-thanksgiving-day-parade-2026"}, {"outlet": "Time Out New York", "title": "The 2026 Rockefeller Center Christmas Tree Lighting has officially been announced", "date": "2026-09-29", "url": "https://www.timeout.com/newyork/news/the-2026-rockefeller-center-christmas-tree-lighting-has-officially-been-announced-and-its-happening-earlier-than-you-think-092926"}, {"outlet": "New York Events", "title": "Radio City Christmas Spectacular New York Tickets", "date": "", "url": "https://new-york.events/shows/radio-city-christmas-spectacular/"}]}];(()=>{const d=new Date(),k=d.getFullYear()+"-"+String(d.getMonth()+1).padStart(2,"0")+"-"+String(d.getDate()).padStart(2,"0");window.EXPIRED=new Set(STORIES.filter(s=>s.until&&s.until<k).map(s=>s.slug));const L=STORIES.filter(s=>!s.until||s.until>=k);STORIES.length=0;STORIES.push(...L)})();
 __mfirst(STORIES);
 const CAL=[];
 const SCENE=[];
@@ -1450,7 +1450,7 @@ function applyCalendarFeed(j,isCalendar){
   const stat=document.querySelector('#mstat .ms:nth-child(2) b');if(stat)stat.textContent=up.length;
   if(['cal','front'].includes(STATE.view)&&!document.activeElement.matches('input,select,textarea'))render();
 }
-['data/cal.json','data/sports.json'].forEach(u=>fetch(u+'?'+Math.floor(Date.now()/6e5),{cache:'no-store'}).then(r=>r.ok?r.json():null).then(j=>applyCalendarFeed(j,u==='data/cal.json')).catch(()=>{}));
+['data/cal.json'].forEach(u=>fetch(u+'?'+Math.floor(Date.now()/6e5),{cache:'no-store'}).then(r=>r.ok?r.json():null).then(j=>applyCalendarFeed(j,u==='data/cal.json')).catch(()=>{}));
 const upScene=SCENE.filter(e=>(e.end||e.date)>=todayKey);
 const tc=t=>(TOPIC[t]||['#8fb3d9',t])[0], tl=t=>(TOPIC[t]||['',t])[1];
 
